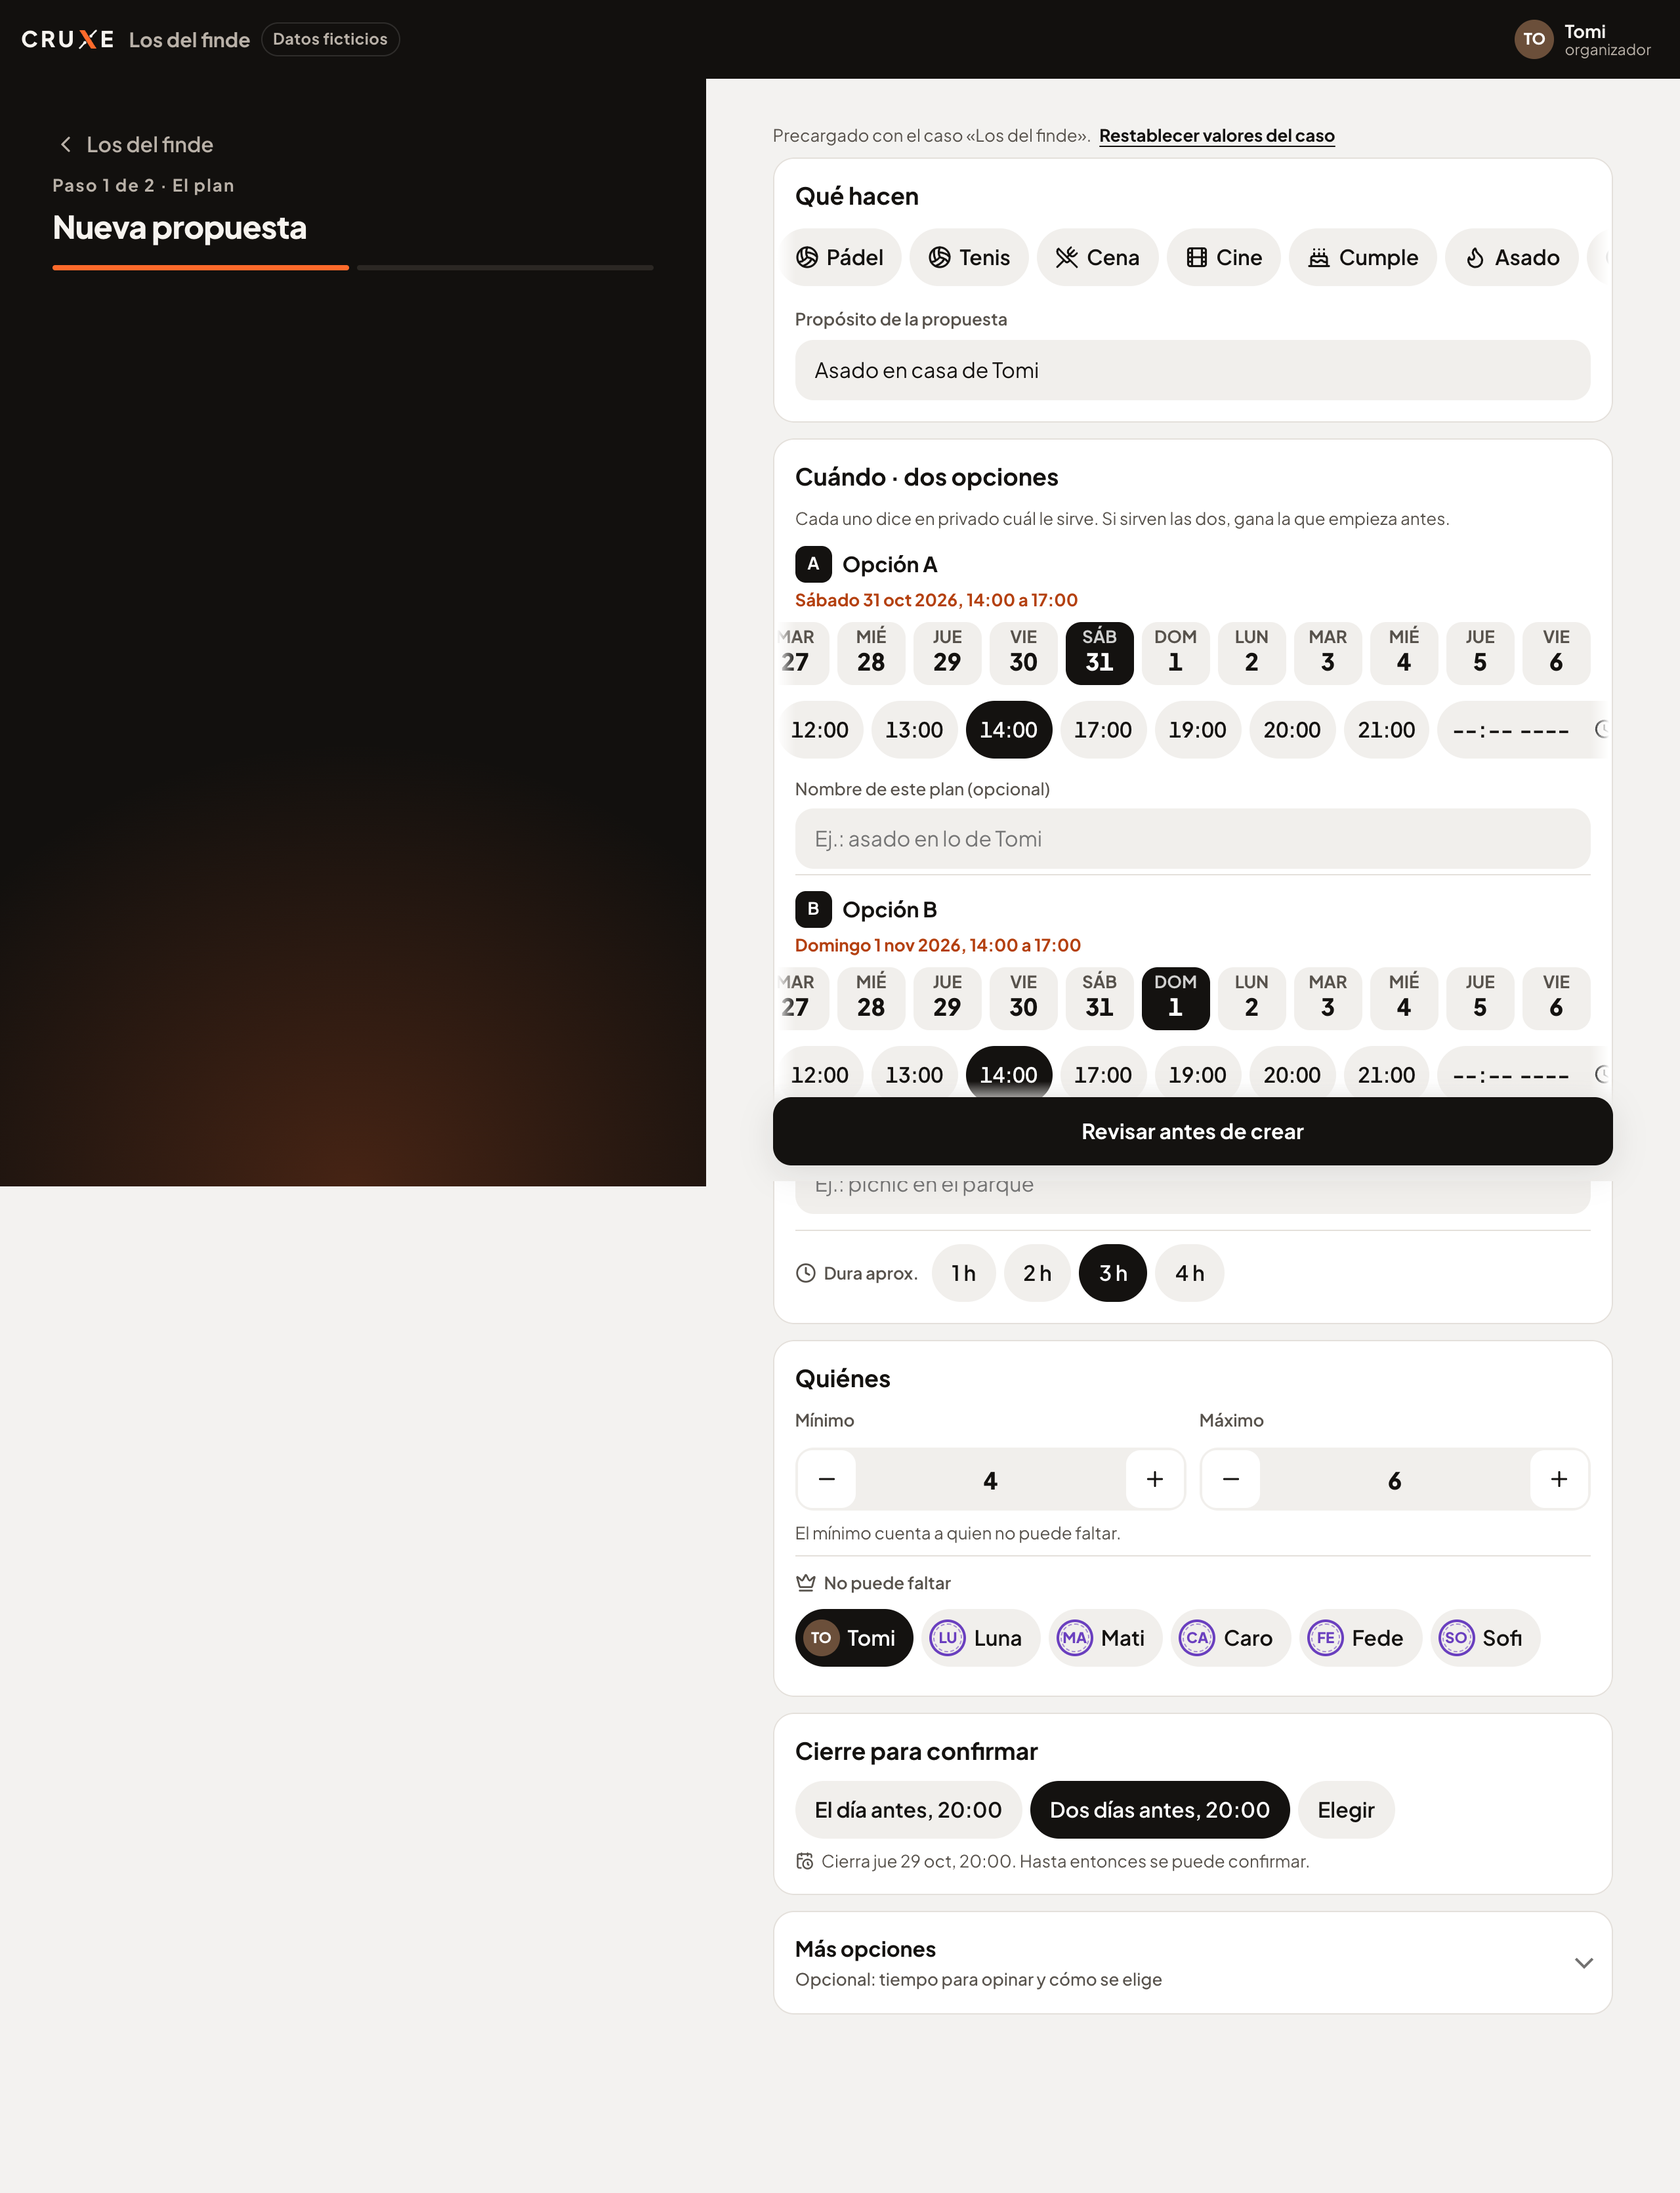
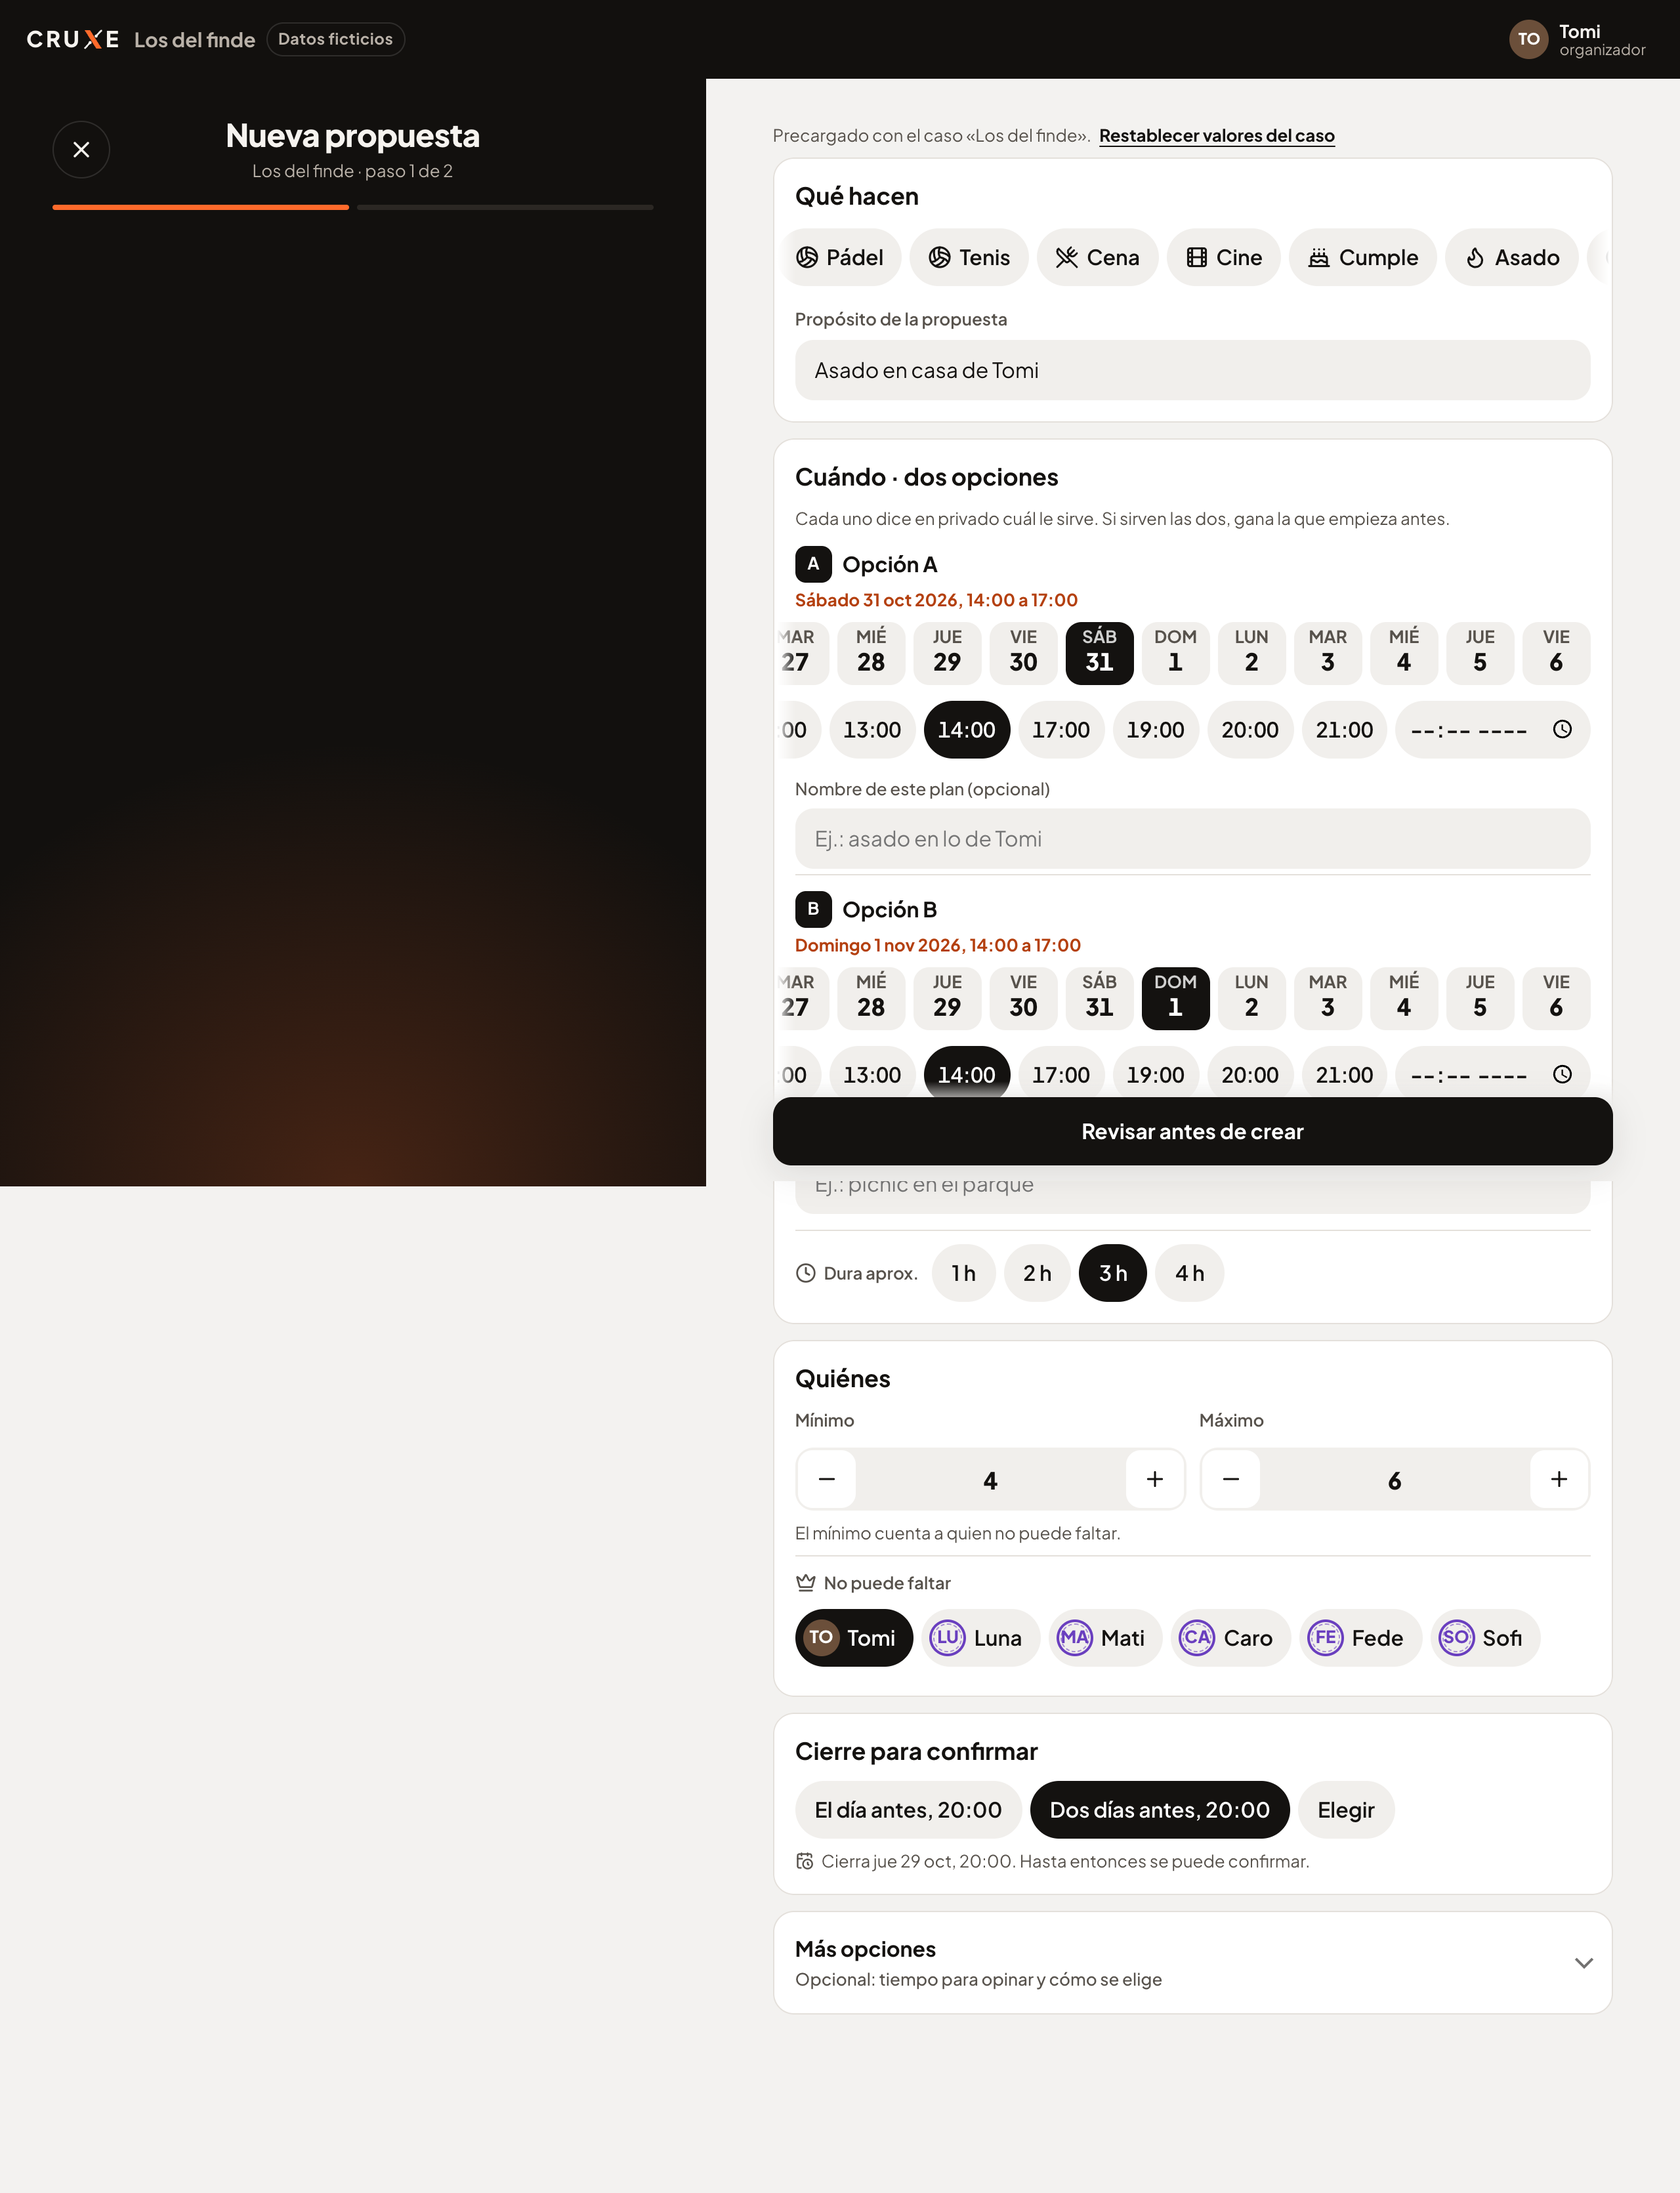
S3 Nueva propuesta, paso 2 (mockup validado, pantalla 4): cabecera de hoja con ✕ y el nombre del grupo bajo el título
El ✕ vuelve al grupo (rótulo accesible "Cerrar y volver a <grupo>"); el paso va junto al nombre del grupo. Ícono
"cerrar" de nuevo en Icono.tsx. Rótulos de los guiones sin cambios (Nueva propuesta, Elegir y Nombre de este plan
siguen a la vista porque rincones f7/f15 y sinteticos dos-planes los tocan). Capturas renovadas sin desborde.

diff --git a/src/screens/NuevaPropuesta.tsx b/src/screens/NuevaPropuesta.tsx
@@ -347,11 +347,19 @@ export default function NuevaPropuesta({ espacioId }: { espacioId: string }) {
   return (
     <div className="vista vista-s3">
       <section className="escena escena-compacta" aria-labelledby="nueva-titulo">
-        <a className="escena-volver" href={rutas.espacio(espacioId)}>
-          <Icono n="atras" tam={20} /> {espacio.nombre}
-        </a>
-        <span className="escena-eyebrow">{paso === 'editar' ? 'Paso 1 de 2 · El plan' : 'Paso 2 de 2 · Revisar y crear'}</span>
-        <h1 id="nueva-titulo">Nueva propuesta</h1>
+        {/* Mockup validado (pantalla 4): una hoja del nivel Grupo, con ✕ para cerrar y el nombre del grupo bajo el título. */}
+        <div className="s3-cabeza">
+          <a className="s3-cerrar" href={rutas.espacio(espacioId)} aria-label={`Cerrar y volver a ${espacio.nombre}`}>
+            <Icono n="cerrar" tam={20} />
+          </a>
+          <div className="s3-titulo">
+            <h1 id="nueva-titulo">Nueva propuesta</h1>
+            <span className="s3-grupo">
+              {espacio.nombre} · {paso === 'editar' ? 'paso 1 de 2' : 'paso 2 de 2: revisar'}
+            </span>
+          </div>
+          <span className="s3-cerrar-espacio" aria-hidden="true" />
+        </div>
         <div className="pasos-form" aria-hidden="true">
           <span className="hecho" />
           <span className={paso === 'revisar' ? 'hecho' : ''} />

diff --git a/src/estilo/seccion-s3.css b/src/estilo/seccion-s3.css
@@ -193,3 +193,34 @@
 .vista-s3 .chip-nota {
   font-size: var(--t-nota);
 }
+
+/* ---- cabecera de hoja (mockup validado, pantalla 4): ✕ a la izquierda, título y grupo al centro */
+.vista-s3 .s3-cabeza {
+  display: grid;
+  grid-template-columns: var(--toque) minmax(0, 1fr) var(--toque);
+  align-items: center;
+  gap: var(--e-2);
+}
+.vista-s3 .s3-cerrar {
+  width: var(--toque);
+  height: var(--toque);
+  display: grid;
+  place-items: center;
+  border-radius: 999px;
+  border: 1px solid var(--noche-linea);
+  color: var(--noche-texto);
+}
+.vista-s3 .s3-titulo {
+  text-align: center;
+  min-width: 0;
+}
+.vista-s3 .s3-titulo h1 {
+  margin: 0;
+}
+.vista-s3 .s3-grupo {
+  display: block;
+  margin-top: var(--e-1);
+  font-size: var(--t-nota);
+  color: var(--noche-suave);
+  overflow-wrap: anywhere;
+}

diff --git a/src/components/Icono.tsx b/src/components/Icono.tsx
@@ -1,6 +1,7 @@
 // Íconos de Lucide (https://lucide.dev, licencia ISC). Siempre decorativos: el texto vecino dice qué es.
 // Se importan uno por uno para que el paquete solo lleve los que se usan.
 import {
+  X,
   Beer,
   Cake,
   CalendarClock,
@@ -53,6 +54,7 @@ const ICONOS = {
   candado: Lock,
   personas: Users,
   chispa: Sparkles,
+  cerrar: X,
   llave: KeyRound,
   calendario: CalendarDays,
   check: Check,
